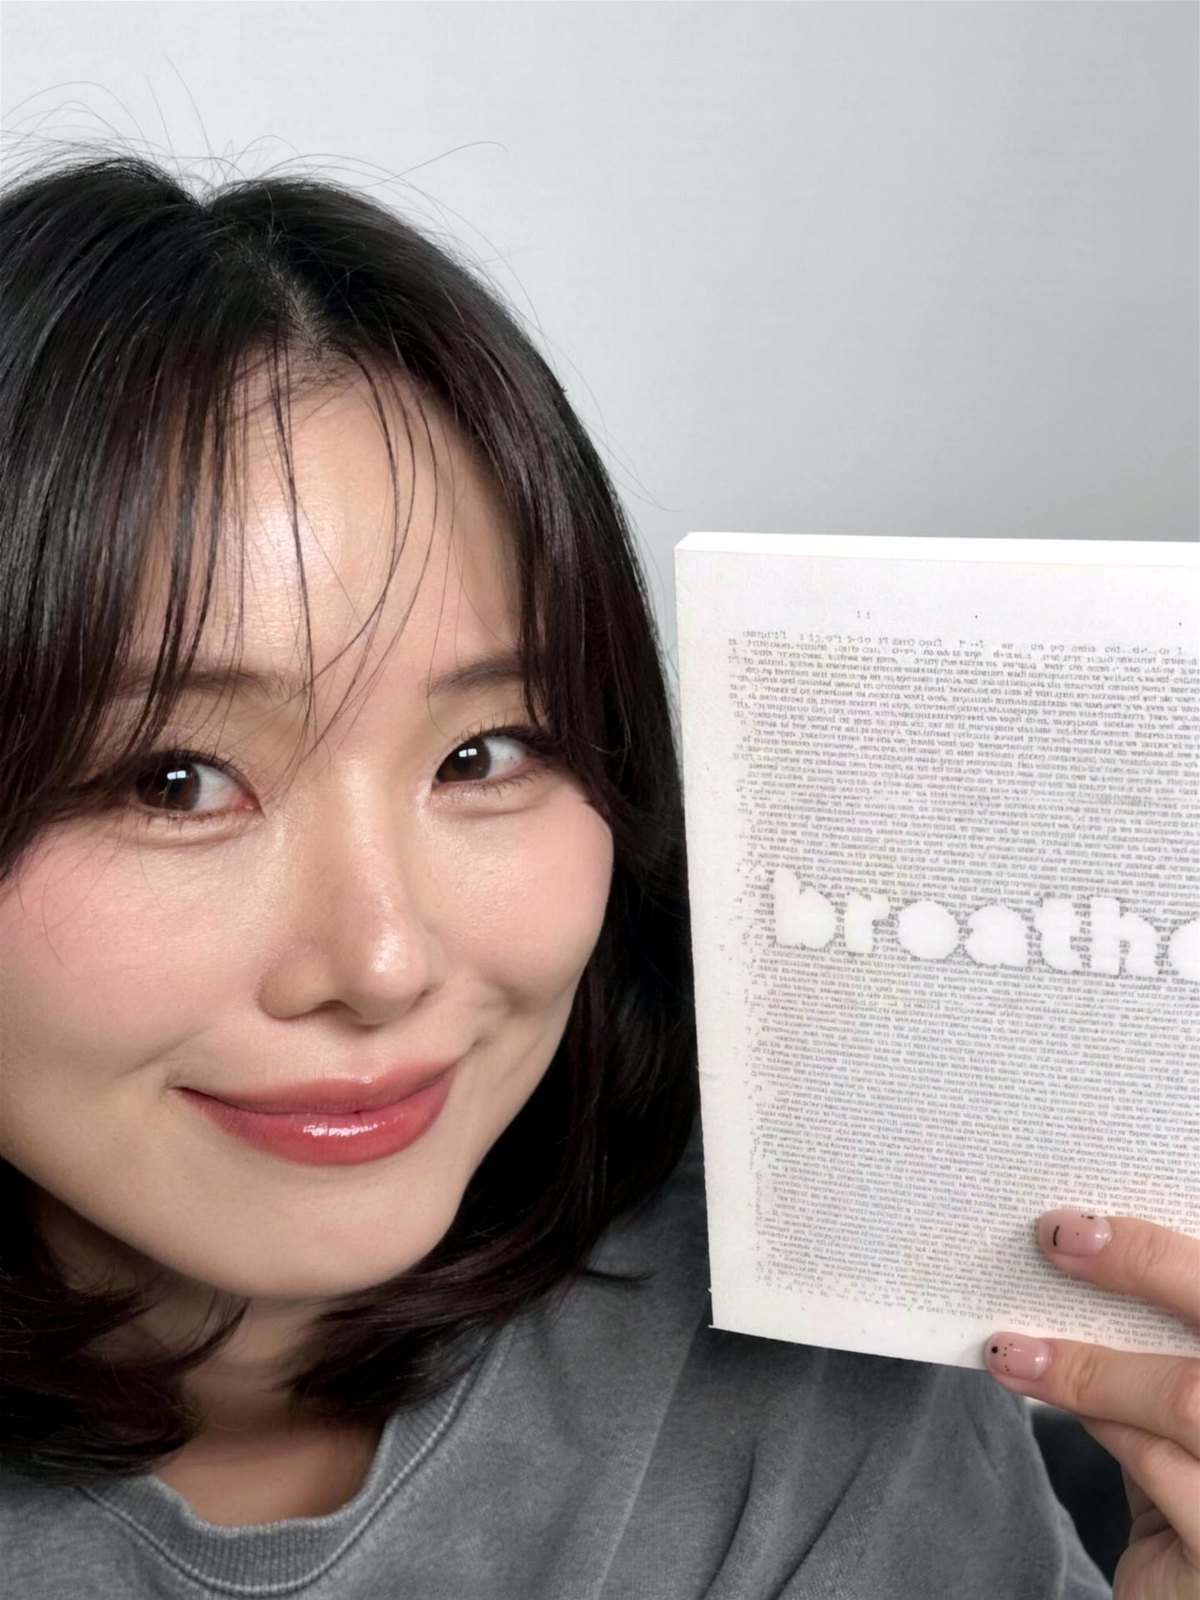
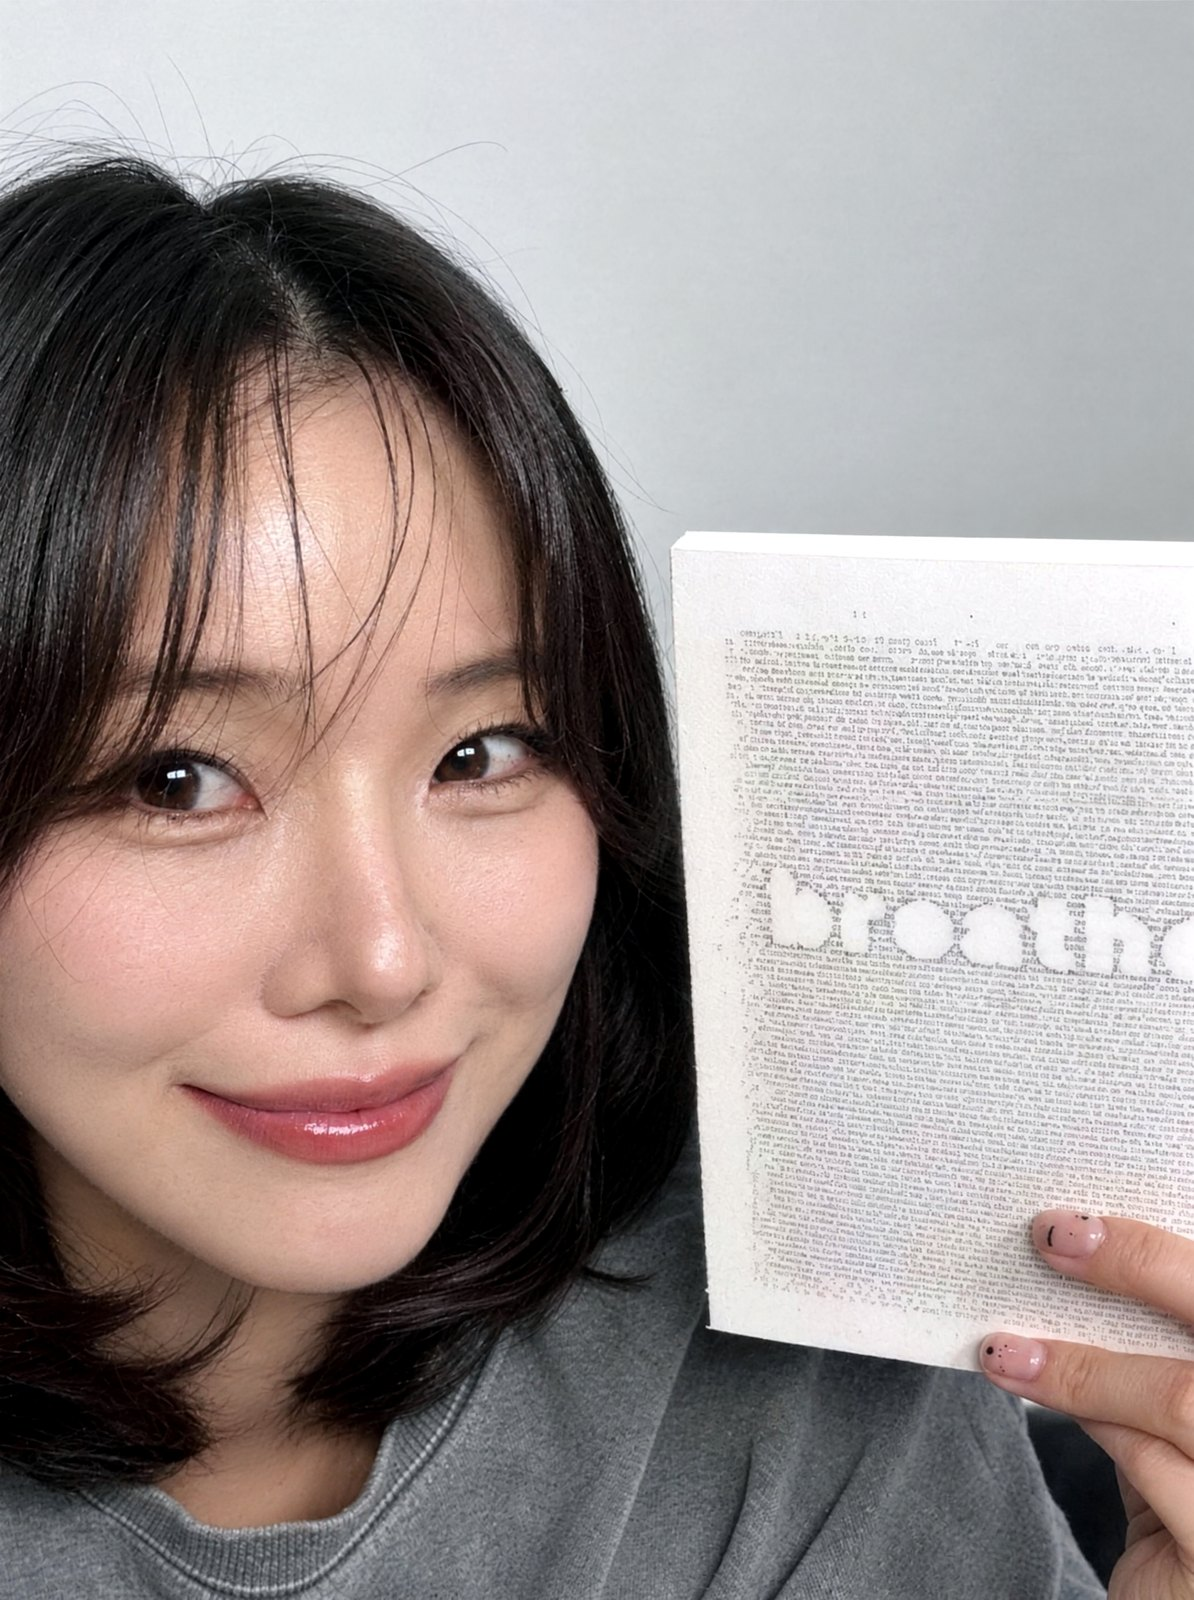
feat(shop): show real interior-page (속지) shots + slim model retouch
- "A look inside" now uses the actual interior-page close-ups
  (Monthly / Weekly / Daily layouts), AI-upscaled to 4K and graded,
  instead of cover-spread reading shots
- Hero photos: natural, consented body retouch on the model
  (~10kg slimmer look) via reference edit, identity/clothing/background kept

diff --git a/src/data/products/breathe.ts b/src/data/products/breathe.ts
@@ -17,10 +17,10 @@ const P = '/images/breathe/'
 const heroGrey = `${P}look5_C26DF7F5.jpg`
 const heroSuit = `${P}look1_5F7F0BE3.jpg`
 const heroFace = `${P}face_643B6376.jpg`
-// A look inside — real open spreads.
-const insideSpread = `${P}look3_5E17C7CC.jpg`
-const insideBreathe = `${P}look6_034A1BCD.jpg`
-const insideReading = `${P}look3_3AF5B24B.jpg`
+// A look inside — real interior page (속지) close-ups.
+const soziMonthly = `${P}sozi_monthly.jpg`
+const soziWeekly = `${P}sozi_weekly.jpg`
+const soziDaily = `${P}sozi_daily.jpg`
 
 export const breathe: Record<Locale, ShopProduct> = {
   ko: {
@@ -55,9 +55,9 @@ export const breathe: Record<Locale, ShopProduct> = {
       eyebrow: 'INSIDE THE PAGES',
       title: 'A look inside',
       items: [
-        { caption: '펼친 내지', image: insideSpread },
-        { caption: 'breathe 스프레드', image: insideBreathe },
-        { caption: '리딩 타임', image: insideReading },
+        { caption: 'Monthly', image: soziMonthly },
+        { caption: 'Weekly', image: soziWeekly },
+        { caption: 'Daily', image: soziDaily },
       ],
     },
     features: {
@@ -204,9 +204,9 @@ export const breathe: Record<Locale, ShopProduct> = {
       eyebrow: 'INSIDE THE PAGES',
       title: 'A look inside',
       items: [
-        { caption: 'Inside spread', image: insideSpread },
-        { caption: 'breathe spread', image: insideBreathe },
-        { caption: 'Reading time', image: insideReading },
+        { caption: 'Monthly', image: soziMonthly },
+        { caption: 'Weekly', image: soziWeekly },
+        { caption: 'Daily', image: soziDaily },
       ],
     },
     features: {
@@ -356,9 +356,9 @@ export const breathe: Record<Locale, ShopProduct> = {
       eyebrow: 'INSIDE THE PAGES',
       title: 'A look inside',
       items: [
-        { caption: '見開き', image: insideSpread },
-        { caption: 'breathe 見開き', image: insideBreathe },
-        { caption: 'リーディング', image: insideReading },
+        { caption: 'Monthly', image: soziMonthly },
+        { caption: 'Weekly', image: soziWeekly },
+        { caption: 'Daily', image: soziDaily },
       ],
     },
     features: {
